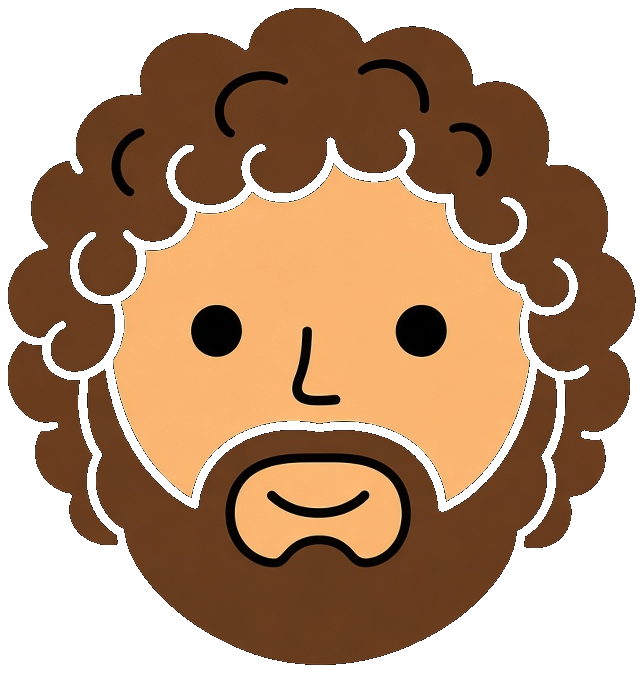
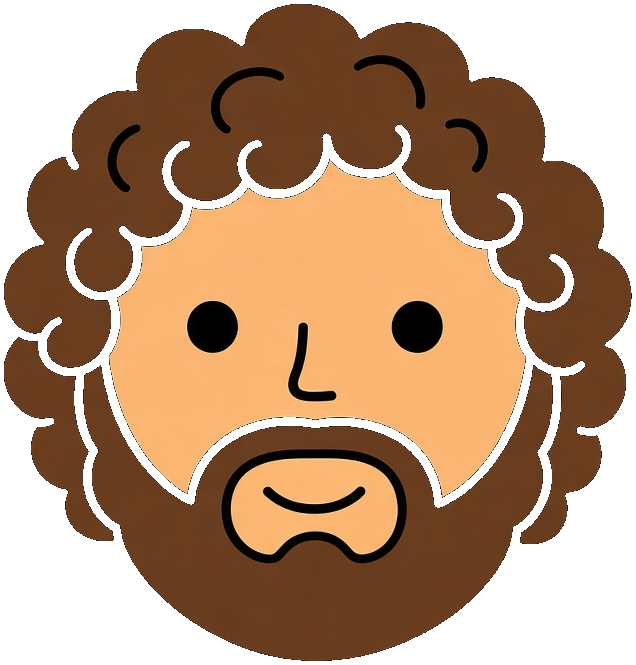
Tune Groom Salute to Telegram-style reaction burst (build 20)
Keep natural sticker aspect (no square football box), larger cutouts,
fewer particles with a center pop then radial fly-out, transparent PNG only.

diff --git a/index.html b/index.html
@@ -636,21 +636,24 @@
         height: 9px;
         animation: spark 0.85s ease-out forwards;
       }
-      /* Groom Salute: big full-viewport stickers, transparent assets (no black plate). */
+      /* Groom Salute ≈ Telegram emoji reaction: big cutouts, natural aspect, no plate. */
       .groom-sticker {
         position: absolute;
-        width: min(52vmin, 48vw);
-        height: min(52vmin, 48vw);
-        max-width: 18rem;
-        max-height: 18rem;
+        width: auto;
+        height: auto;
+        max-width: 62vmin;
+        max-height: 62vmin;
         object-fit: contain;
-        background: transparent;
+        object-position: center;
+        background: transparent !important;
         border: 0;
         border-radius: 0;
         box-shadow: none;
-        animation: groom-salute 1.15s ease-out forwards;
+        outline: none;
+        animation: groom-salute 1.35s cubic-bezier(0.16, 0.84, 0.28, 1) forwards;
         will-change: transform, opacity;
         z-index: 11;
+        pointer-events: none;
       }
       @media (prefers-reduced-motion: reduce) {
         .groom-sticker {
@@ -713,17 +716,23 @@
           opacity: 0;
         }
       }
+      /* Pop in the center, then fly out like a Telegram reaction splash. */
       @keyframes groom-salute {
         0% {
-          transform: translate(-50%, -50%) scale(0.55) rotate(0deg);
+          transform: translate(-50%, -50%) scale(0.15) rotate(0deg);
           opacity: 1;
         }
-        20% {
+        14% {
+          transform: translate(-50%, -50%) scale(1.35) rotate(calc(var(--rot, 0deg) * 0.15));
           opacity: 1;
         }
-        to {
-          transform: translate(calc(-50% + var(--dx)), calc(-50% + var(--dy))) rotate(var(--rot, 0deg))
-            scale(1.05);
+        28% {
+          transform: translate(-50%, -50%) scale(1.05) rotate(calc(var(--rot, 0deg) * 0.35));
+          opacity: 1;
+        }
+        100% {
+          transform: translate(calc(-50% + var(--dx)), calc(-50% + var(--dy)))
+            rotate(var(--rot, 0deg)) scale(0.95);
           opacity: 0;
         }
       }
@@ -826,7 +835,7 @@
       <footer class="footer">
         <p>Одна ссылка — одна игра на всех.</p>
         <div class="footer-tools">
-          <span id="buildTag">build 19</span>
+          <span id="buildTag">build 20</span>
           <button type="button" id="hardResetBtn">сброс кэша</button>
         </div>
       </footer>
@@ -968,7 +977,7 @@
         var SPIN_MS = 5600
         var BANDIT_MS = 2800
         var MIN_TURNS = 7
-        var GROOM_SALUTE_MS = 1150
+        var GROOM_SALUTE_MS = 1400
         var GROOM_STICKERS = [
           { id: 'football', src: 'assets/groom-salute/football.png' },
           { id: 'zvyrk', src: 'assets/groom-salute/zvyrk-cat.png' },
@@ -1925,9 +1934,9 @@
             return
           }
           groomSaluteActive = true
-          var count = 12 + Math.floor(Math.random() * 9) // 12–20
+          // Telegram-like splash: fewer, bigger cutouts (not a confetti sprinkle).
+          var count = 8 + Math.floor(Math.random() * 5) // 8–12
           var pack = []
-          // Guarantee a mix of football, Zvyrk, and Jesus in every burst.
           for (var g = 0; g < GROOM_STICKERS.length; g++) pack.push(GROOM_STICKERS[g])
           while (pack.length < count) {
             pack.push(GROOM_STICKERS[Math.floor(Math.random() * GROOM_STICKERS.length)])
@@ -1940,7 +1949,7 @@
           }
           var vw = Math.max(window.innerWidth || 320, 320)
           var vh = Math.max(window.innerHeight || 480, 480)
-          var reach = Math.max(vw, vh) * 0.55
+          var reach = Math.max(vw, vh) * 0.62
           for (var s = 0; s < pack.length; s++) {
             var sticker = pack[s]
             var img = document.createElement('img')
@@ -1949,19 +1958,23 @@
             img.src = sticker.src
             img.alt = ''
             img.setAttribute('aria-hidden', 'true')
-            var ang = Math.random() * Math.PI * 2
-            var dist = reach * (0.55 + Math.random() * 0.7)
+            // Even radial burst + jitter (reaction splash).
+            var ang = (Math.PI * 2 * s) / pack.length + (Math.random() - 0.5) * 0.55
+            var dist = reach * (0.7 + Math.random() * 0.55)
+            // Mild upward bias like Telegram floats.
+            var dx = Math.cos(ang) * dist
+            var dy = Math.sin(ang) * dist - vh * 0.08
             img.style.left = '50%'
-            img.style.top = '45%'
-            img.style.setProperty('--dx', Math.cos(ang) * dist + 'px')
-            img.style.setProperty('--dy', Math.sin(ang) * dist + 'px')
-            img.style.setProperty('--rot', Math.floor(Math.random() * 720 - 360) + 'deg')
-            // Slight size jitter so the fireworks fill the screen unevenly.
-            var size = 38 + Math.floor(Math.random() * 28) // 38–65 vmin-ish via inline
-            img.style.width = size + 'vmin'
-            img.style.height = size + 'vmin'
-            img.style.maxWidth = 'none'
-            img.style.maxHeight = 'none'
+            img.style.top = '48%'
+            img.style.setProperty('--dx', dx + 'px')
+            img.style.setProperty('--dy', dy + 'px')
+            img.style.setProperty('--rot', Math.floor(Math.random() * 520 - 260) + 'deg')
+            // Keep natural aspect — size via max only (fixes “square football”).
+            var size = 46 + Math.floor(Math.random() * 28) // 46–73 vmin
+            img.style.width = 'auto'
+            img.style.height = 'auto'
+            img.style.maxWidth = size + 'vmin'
+            img.style.maxHeight = size + 'vmin'
             els.fx.appendChild(img)
           }
           groomSaluteTimer = setTimeout(function () {
